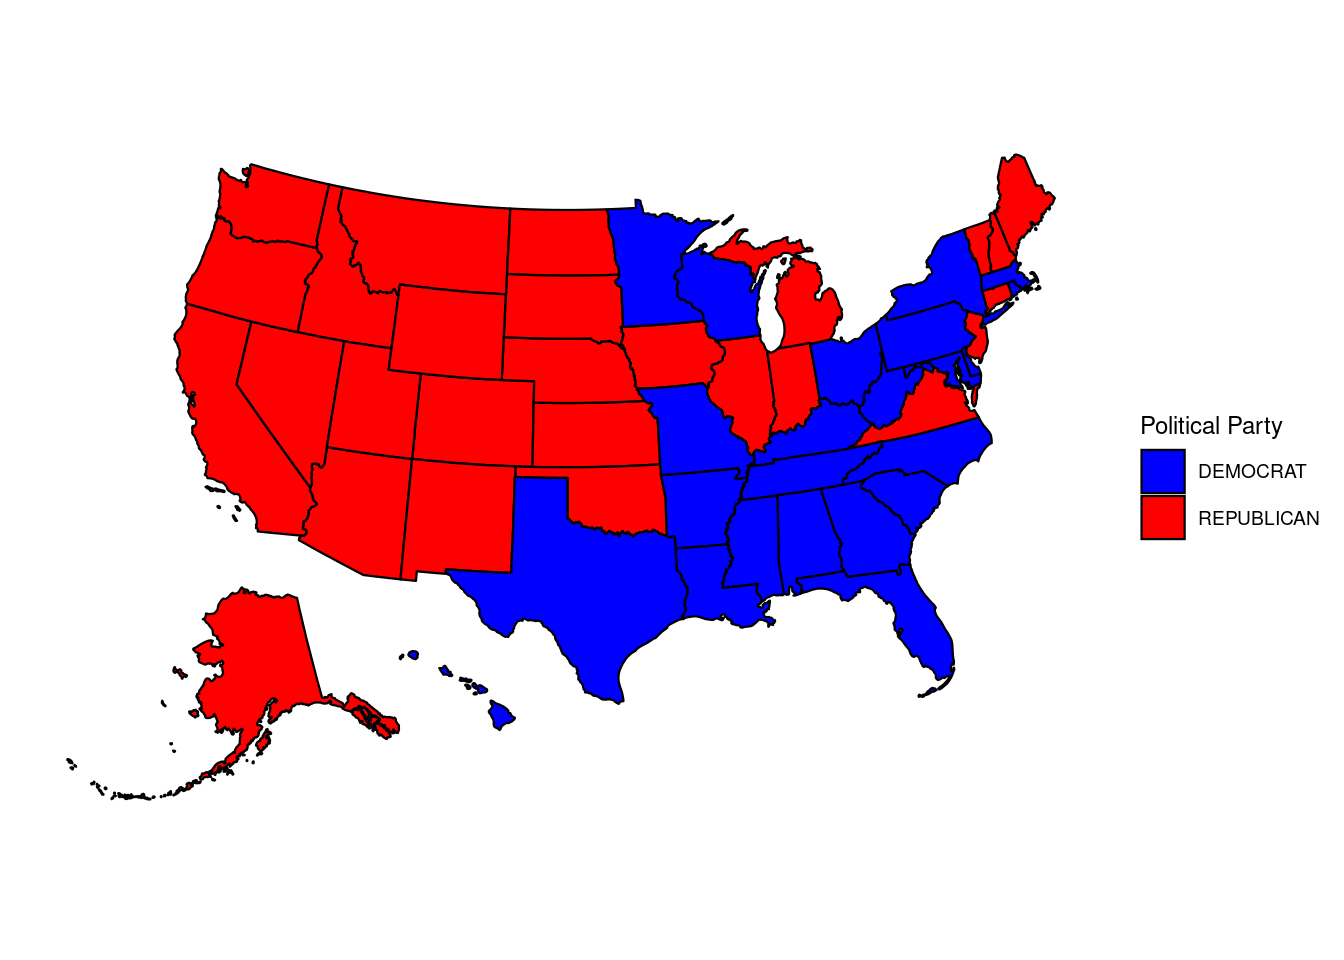
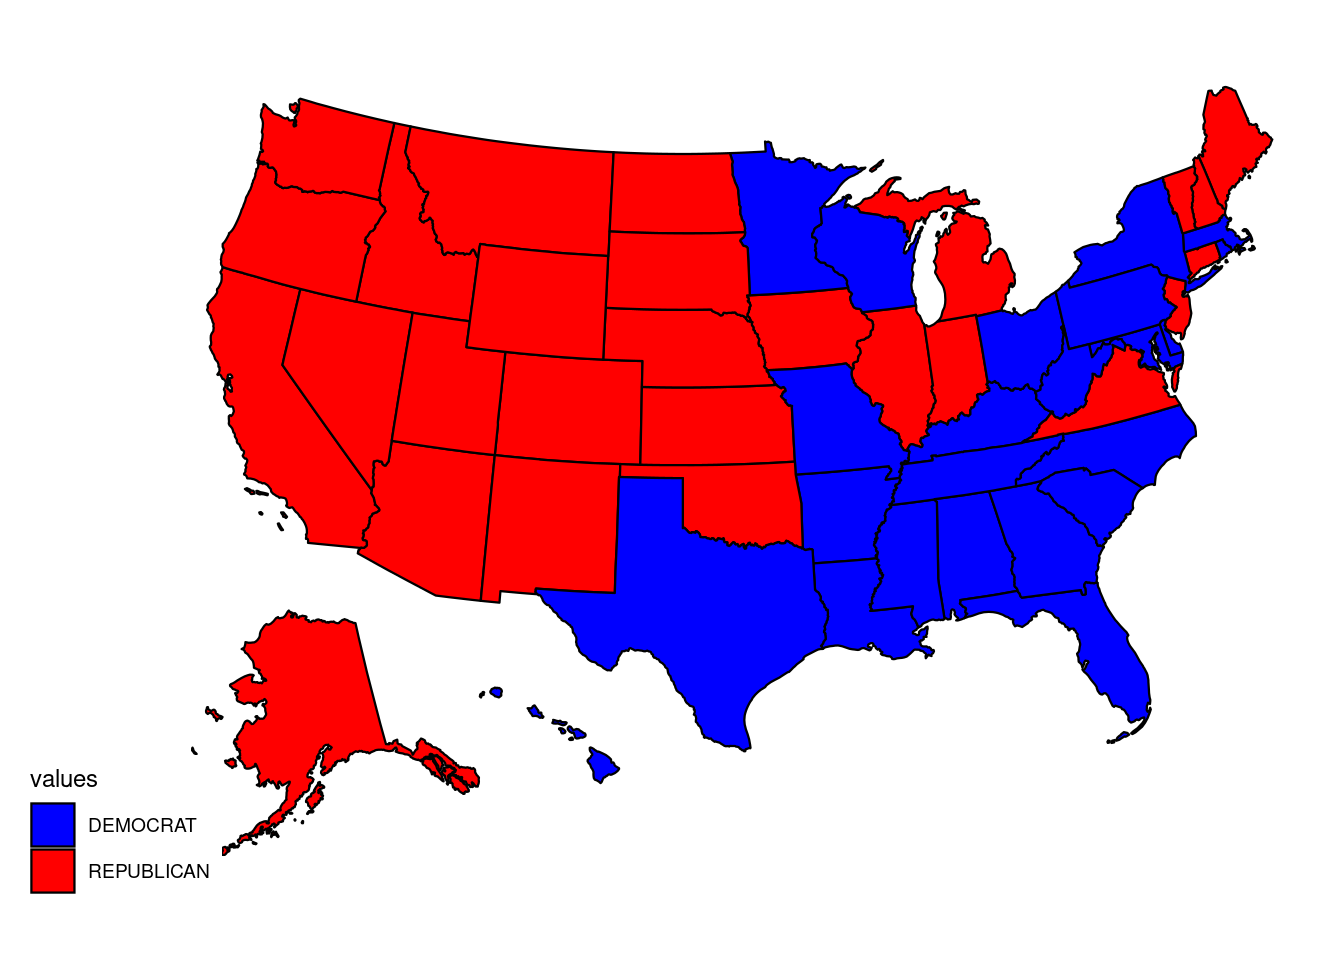
Fixed error message

diff --git a/index.html b/index.html
@@ -98,32 +98,36 @@ pre > code.sourceCode > span > a:first-child::before { text-decoration: underlin
 
 <div class="cell">
 <div class="sourceCode cell-code" id="cb1"><pre class="sourceCode r code-with-copy"><code class="sourceCode r"><span id="cb1-1"><a href="#cb1-1" aria-hidden="true" tabindex="-1"></a><span class="fu">library</span>(tidyverse)</span>
-<span id="cb1-2"><a href="#cb1-2" aria-hidden="true" tabindex="-1"></a><span class="fu">library</span>(usmap)</span>
-<span id="cb1-3"><a href="#cb1-3" aria-hidden="true" tabindex="-1"></a></span>
-<span id="cb1-4"><a href="#cb1-4" aria-hidden="true" tabindex="-1"></a>presidents <span class="ot">&lt;-</span> <span class="fu">read_csv</span>(<span class="st">"data/1976-2020-president.csv"</span>, <span class="at">show_col_types =</span> <span class="cn">FALSE</span>)</span>
-<span id="cb1-5"><a href="#cb1-5" aria-hidden="true" tabindex="-1"></a></span>
-<span id="cb1-6"><a href="#cb1-6" aria-hidden="true" tabindex="-1"></a>presidents1 <span class="ot">&lt;-</span> presidents <span class="sc">|&gt;</span></span>
-<span id="cb1-7"><a href="#cb1-7" aria-hidden="true" tabindex="-1"></a>  <span class="fu">filter</span>(party_detailed <span class="sc">%in%</span> <span class="fu">c</span>(<span class="st">"DEMOCRAT"</span>, <span class="st">"REPUBLICAN"</span>),</span>
-<span id="cb1-8"><a href="#cb1-8" aria-hidden="true" tabindex="-1"></a>         candidatevotes <span class="sc">!=</span> <span class="dv">1109659</span>)  <span class="sc">|&gt;</span></span>
-<span id="cb1-9"><a href="#cb1-9" aria-hidden="true" tabindex="-1"></a>  <span class="fu">select</span>(party_detailed, year, state, candidatevotes, totalvotes)</span>
-<span id="cb1-10"><a href="#cb1-10" aria-hidden="true" tabindex="-1"></a>  </span>
-<span id="cb1-11"><a href="#cb1-11" aria-hidden="true" tabindex="-1"></a></span>
-<span id="cb1-12"><a href="#cb1-12" aria-hidden="true" tabindex="-1"></a>presidents1</span></code><button title="Copy to Clipboard" class="code-copy-button"><i class="bi"></i></button></pre></div>
+<span id="cb1-2"><a href="#cb1-2" aria-hidden="true" tabindex="-1"></a><span class="fu">library</span>(sf)</span>
+<span id="cb1-3"><a href="#cb1-3" aria-hidden="true" tabindex="-1"></a><span class="fu">library</span>(usmap)</span>
+<span id="cb1-4"><a href="#cb1-4" aria-hidden="true" tabindex="-1"></a></span>
+<span id="cb1-5"><a href="#cb1-5" aria-hidden="true" tabindex="-1"></a>presidents <span class="ot">&lt;-</span> <span class="fu">read_csv</span>(<span class="st">"data/1976-2020-president.csv"</span>, <span class="at">show_col_types =</span> <span class="cn">FALSE</span>)</span>
+<span id="cb1-6"><a href="#cb1-6" aria-hidden="true" tabindex="-1"></a></span>
+<span id="cb1-7"><a href="#cb1-7" aria-hidden="true" tabindex="-1"></a>presidents1 <span class="ot">&lt;-</span> presidents <span class="sc">|&gt;</span></span>
+<span id="cb1-8"><a href="#cb1-8" aria-hidden="true" tabindex="-1"></a>  <span class="fu">filter</span>(party_detailed <span class="sc">%in%</span> <span class="fu">c</span>(<span class="st">"DEMOCRAT"</span>, <span class="st">"REPUBLICAN"</span>)) <span class="sc">|&gt;</span></span>
+<span id="cb1-9"><a href="#cb1-9" aria-hidden="true" tabindex="-1"></a>  <span class="fu">select</span>(party_detailed, year, state, candidatevotes, totalvotes) <span class="sc">|&gt;</span></span>
+<span id="cb1-10"><a href="#cb1-10" aria-hidden="true" tabindex="-1"></a>  <span class="fu">mutate</span>(<span class="at">perc_votes =</span> candidatevotes <span class="sc">/</span> totalvotes) <span class="sc">|&gt;</span></span>
+<span id="cb1-11"><a href="#cb1-11" aria-hidden="true" tabindex="-1"></a>  <span class="fu">arrange</span>(party_detailed) <span class="sc">|&gt;</span></span>
+<span id="cb1-12"><a href="#cb1-12" aria-hidden="true" tabindex="-1"></a>  <span class="fu">group_by</span>(year, state) <span class="sc">|&gt;</span></span>
+<span id="cb1-13"><a href="#cb1-13" aria-hidden="true" tabindex="-1"></a>  <span class="fu">reframe</span>(<span class="at">rep_dem_diff =</span> <span class="fu">diff</span>(perc_votes))</span>
+<span id="cb1-14"><a href="#cb1-14" aria-hidden="true" tabindex="-1"></a></span>
+<span id="cb1-15"><a href="#cb1-15" aria-hidden="true" tabindex="-1"></a></span>
+<span id="cb1-16"><a href="#cb1-16" aria-hidden="true" tabindex="-1"></a>presidents1</span></code><button title="Copy to Clipboard" class="code-copy-button"><i class="bi"></i></button></pre></div>
 <div class="cell-output cell-output-stdout">
-<pre><code># A tibble: 1,224 × 5
-   party_detailed  year state      candidatevotes totalvotes
-   &lt;chr&gt;          &lt;dbl&gt; &lt;chr&gt;               &lt;dbl&gt;      &lt;dbl&gt;
- 1 DEMOCRAT        1976 ALABAMA            659170    1182850
- 2 REPUBLICAN      1976 ALABAMA            504070    1182850
- 3 REPUBLICAN      1976 ALASKA              71555     123574
- 4 DEMOCRAT        1976 ALASKA              44058     123574
- 5 REPUBLICAN      1976 ARIZONA            418642     742719
- 6 DEMOCRAT        1976 ARIZONA            295602     742719
- 7 DEMOCRAT        1976 ARKANSAS           498604     767535
- 8 REPUBLICAN      1976 ARKANSAS           267903     767535
- 9 REPUBLICAN      1976 CALIFORNIA        3882244    7803770
-10 DEMOCRAT        1976 CALIFORNIA        3742284    7803770
-# ℹ 1,214 more rows</code></pre>
+<pre><code># A tibble: 613 × 3
+    year state                rep_dem_diff
+   &lt;dbl&gt; &lt;chr&gt;                       &lt;dbl&gt;
+ 1  1976 ALABAMA                   -0.131 
+ 2  1976 ALASKA                     0.223 
+ 3  1976 ARIZONA                    0.166 
+ 4  1976 ARKANSAS                  -0.301 
+ 5  1976 CALIFORNIA                 0.0179
+ 6  1976 COLORADO                   0.114 
+ 7  1976 CONNECTICUT                0.0515
+ 8  1976 DELAWARE                  -0.0538
+ 9  1976 DISTRICT OF COLUMBIA      -0.651 
+10  1976 FLORIDA                   -0.0528
+# ℹ 603 more rows</code></pre>
 </div>
 </div>
 <div class="cell">
@@ -140,17 +144,11 @@ pre > code.sourceCode > span > a:first-child::before { text-decoration: underlin
 <span id="cb4-3"><a href="#cb4-3" aria-hidden="true" tabindex="-1"></a>  <span class="fu">group_by</span>(state) <span class="sc">|&gt;</span></span>
 <span id="cb4-4"><a href="#cb4-4" aria-hidden="true" tabindex="-1"></a>  <span class="fu">filter</span>(candidatevotes <span class="sc">==</span> <span class="fu">max</span>(candidatevotes)) <span class="sc">|&gt;</span></span>
 <span id="cb4-5"><a href="#cb4-5" aria-hidden="true" tabindex="-1"></a>  <span class="fu">ungroup</span>() <span class="sc">|&gt;</span></span>
-<span id="cb4-6"><a href="#cb4-6" aria-hidden="true" tabindex="-1"></a>  <span class="fu">select</span>(state_fips, party_simplified) <span class="sc">|&gt;</span></span>
-<span id="cb4-7"><a href="#cb4-7" aria-hidden="true" tabindex="-1"></a>  <span class="fu">rename</span>(<span class="at">fips =</span> state_fips, <span class="at">values =</span> party_simplified)</span>
+<span id="cb4-6"><a href="#cb4-6" aria-hidden="true" tabindex="-1"></a>  <span class="fu">select</span>(state_fips, party_detailed) <span class="sc">|&gt;</span></span>
+<span id="cb4-7"><a href="#cb4-7" aria-hidden="true" tabindex="-1"></a>  <span class="fu">rename</span>(<span class="at">fips =</span> state_fips, <span class="at">values =</span> party_detailed)</span>
 <span id="cb4-8"><a href="#cb4-8" aria-hidden="true" tabindex="-1"></a></span>
 <span id="cb4-9"><a href="#cb4-9" aria-hidden="true" tabindex="-1"></a><span class="fu">plot_usmap</span>(<span class="st">"states"</span>, <span class="at">data =</span> map_data) <span class="sc">+</span></span>
-<span id="cb4-10"><a href="#cb4-10" aria-hidden="true" tabindex="-1"></a>  <span class="fu">scale_fill_manual</span>(<span class="at">values =</span> <span class="fu">c</span>(<span class="st">"blue"</span>, <span class="st">"red"</span>))  <span class="sc">+</span></span>
-<span id="cb4-11"><a href="#cb4-11" aria-hidden="true" tabindex="-1"></a>  <span class="fu">labs</span>(    </span>
-<span id="cb4-12"><a href="#cb4-12" aria-hidden="true" tabindex="-1"></a>    <span class="at">fill =</span> <span class="st">"Political Party"</span></span>
-<span id="cb4-13"><a href="#cb4-13" aria-hidden="true" tabindex="-1"></a>    ) <span class="sc">+</span></span>
-<span id="cb4-14"><a href="#cb4-14" aria-hidden="true" tabindex="-1"></a>  <span class="fu">theme</span>(</span>
-<span id="cb4-15"><a href="#cb4-15" aria-hidden="true" tabindex="-1"></a>    <span class="at">legend.position =</span> <span class="st">"right"</span></span>
-<span id="cb4-16"><a href="#cb4-16" aria-hidden="true" tabindex="-1"></a>  )</span></code><button title="Copy to Clipboard" class="code-copy-button"><i class="bi"></i></button></pre></div>
+<span id="cb4-10"><a href="#cb4-10" aria-hidden="true" tabindex="-1"></a>  <span class="fu">scale_fill_manual</span>(<span class="at">values =</span> <span class="fu">c</span>(<span class="st">"blue"</span>, <span class="st">"red"</span>)) </span></code><button title="Copy to Clipboard" class="code-copy-button"><i class="bi"></i></button></pre></div>
 <div class="cell-output-display">
 <div>
 <figure class="figure">
